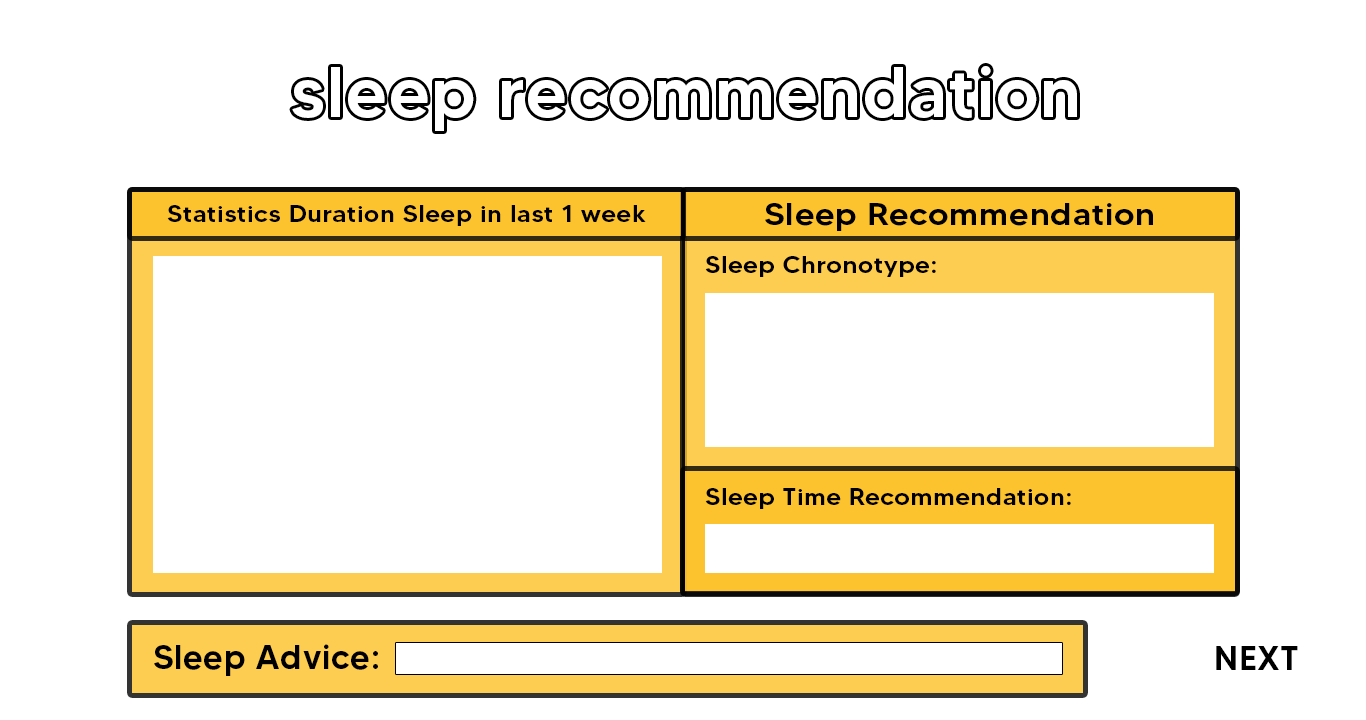
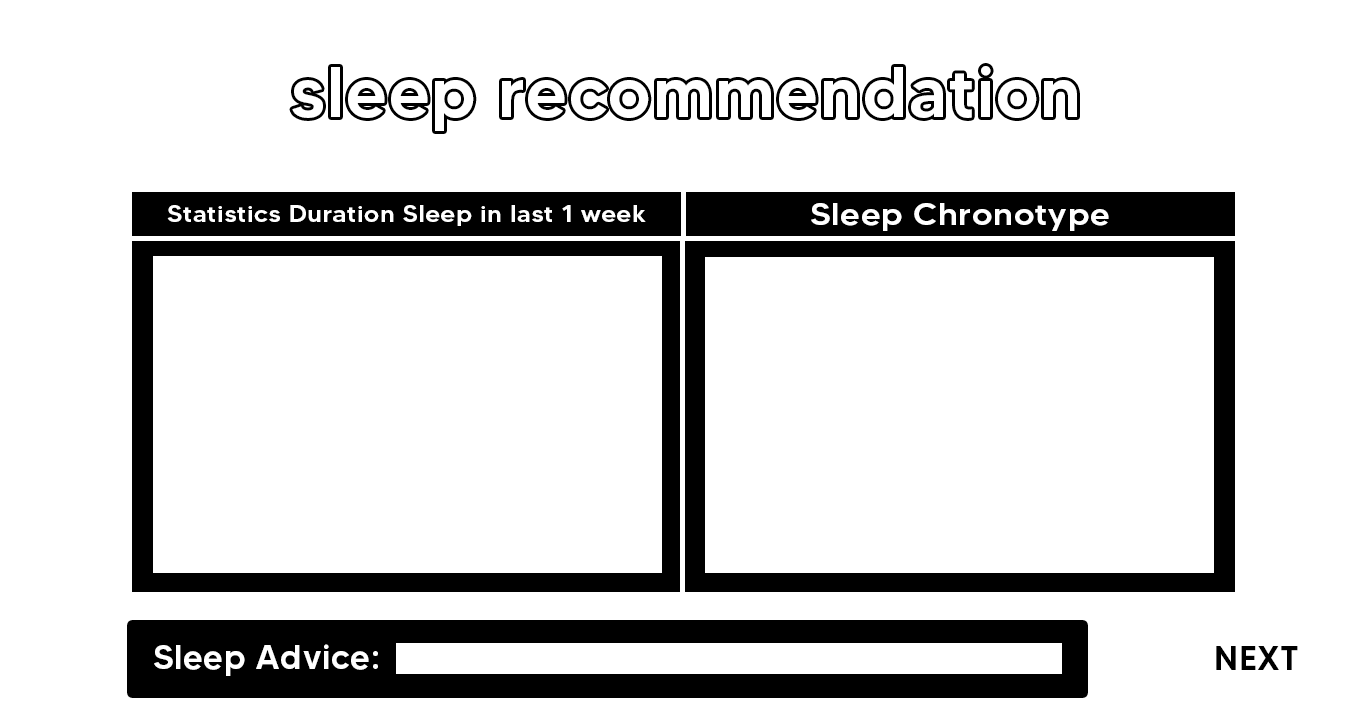
feat: sleep recommendation 100%

Changed region(s): [[0.0922, 0.2444, 0.9224, 0.9778]]

diff --git a/Sleep/Sleep_Recommendation.py b/Sleep/Sleep_Recommendation.py
@@ -8,14 +8,14 @@ from PyQt5.QtGui import QFont
 from PyQt5.QtWidgets import (QDateEdit, QLabel, QPushButton, QSizePolicy, QWidget, QPlainTextEdit)
 from PyQt5 import QtWidgets
 from Sleep.Sleep import Sleep
+from Sleep.Sleep_Service import Sleep_Service
 from Sleep.Sleep_Plot import *
 import  MainMenu.mainmenu as main
 
-class Ui_Widget(QWidget, Sleep):
+class Ui_Widget(QWidget, Sleep_Service):
     def __init__(self):
         
         super().__init__()
-        Sleep.__init__(self)
         self.title='Sleep Input'
         self.left = 0
         self.top = 0
@@ -25,7 +25,7 @@ class Ui_Widget(QWidget, Sleep):
     
     def setupUi(self, Widget):
         self.setWindowTitle(self.title)
-        self.setGeometry(self.left, self.top, self.width, self.height)
+        # self.setGeometry(self.left, self.top, self.width, self.height)
         if not Widget.objectName():
             Widget.setObjectName(u"Widget")
         Widget.resize(1366, 720)
@@ -53,19 +53,10 @@ class Ui_Widget(QWidget, Sleep):
         self.chronoType = QLabel(Widget)
         self.chronoType.setObjectName(u"chronoType")
         self.chronoType.setEnabled(True)
-        self.chronoType.setGeometry(QRect(705, 293, 509, 155))
-        self.chronoType.setStyleSheet(u"border-image: url(./Sleep/vstock/bearChronoType.jpg)")
+        self.chronoType.setGeometry(QRect(705, 257, 511, 316))
+        chronoPict, self.meanDuration = self.calculateChronoType(self.getWeekStartSleepHour(id=None), self.getWeekEndSleepHour(id=None), self.getWeekSleepDuration(id=None))
+        self.chronoType.setStyleSheet(u"border-image: url(./Sleep/vstock/"+ chronoPict +")")
         
-        self.rec = QLabel(Widget)
-        self.rec.setObjectName(u"recommendation")
-        self.rec.setEnabled(True)
-        self.rec.setGeometry(QRect(715, 525, 509, 50))
-        self.rec.setStyleSheet("\n"
-            "font: 700 15pt \"Segoe Script\";\n"
-            "alternate-background-color: rgb(255, 85, 0);\n"
-            "selection-color: rgb(170, 0, 0);\n"
-            "selection-background-color: rgb(170, 0, 0);\n"
-            "border-color: rgb(0, 0, 0);\n")
         self.rec1 = QLabel(Widget)
         self.rec1.setObjectName(u"recommendation")
         self.rec1.setEnabled(True)
@@ -104,9 +95,13 @@ class Ui_Widget(QWidget, Sleep):
         self.hide()
         
     def retranslateUi(self, Widget):
-        self.test = u"You should sleep more"
+        if(self.meanDuration >= 600):
+            self.test = u"You should sleep less"
+        elif(self.meanDuration <= 300):
+            self.test = u"You should sleep more"
+        else:
+            self.test = u"Your sleep duration is good!!"
         Widget.setWindowTitle(QCoreApplication.translate("Widget", u"Widget", None))
-        self.rec.setText(QCoreApplication.translate("Widget", self.test, None))
         self.rec1.setText(QCoreApplication.translate("Widget", self.test, None))
         self.nextButton.setText(QCoreApplication.translate("Widget", u"", None))
         self.labelRecommendation.setText(QCoreApplication.translate("Widget", u"", None))

diff --git a/Sleep/Sleep_Service.py b/Sleep/Sleep_Service.py
@@ -98,3 +98,26 @@ class Sleep_Service(S.Sleep):
         else:
             return False
     
+    def calculateChronoType(self, jam_start, jam_end, duration):
+        meanJamStart = jam_start[0]
+        meanJamEnd = jam_end[0]
+        meanDuration = duration[0]
+        for i in range(1, len(jam_start)):
+            meanJamStart = (meanJamStart + jam_start[i])/2
+            
+        for i in range(1, len(jam_end)):
+            meanJamEnd = (meanJamEnd + jam_end[i])/2
+        for i in range(1, len(jam_end)):
+            meanDuration = (meanDuration + duration[i])/2
+                
+        if (meanJamStart <= 24 and meanJamStart >= 22 and meanDuration > 300) :
+            return 'lionChronoType.png', meanDuration
+        elif (meanJamStart <= 4 and meanDuration > 300):
+            return 'bearChronoType.png', meanDuration
+        elif (meanJamStart > 6 and meanJamStart <= 12 and meanDuration > 300):
+            return 'wolfChronoType.png', meanDuration
+        elif (meanJamStart < 22 and meanJamStart >= 18 and meanDuration > 300):
+            return 'dolphinChronoType.png', meanDuration
+        else:
+            return 'andaBermasalah.png', meanDuration
+        

diff --git a/Sleep/Sleep_Visualization_GUI.py b/Sleep/Sleep_Visualization_GUI.py
@@ -57,7 +57,7 @@ class Ui_Widget(QWidget, Sleep, uw.Ui_Form):
     
     def setupUi(self, Widget):
         self.setWindowTitle(self.title)
-        self.setGeometry(self.left, self.top, self.width, self.height)
+        # self.setGeometry(self.left, self.top, self.width, self.height)
         if not Widget.objectName():
             Widget.setObjectName(u"Widget")
         Widget.resize(1366, 720)
